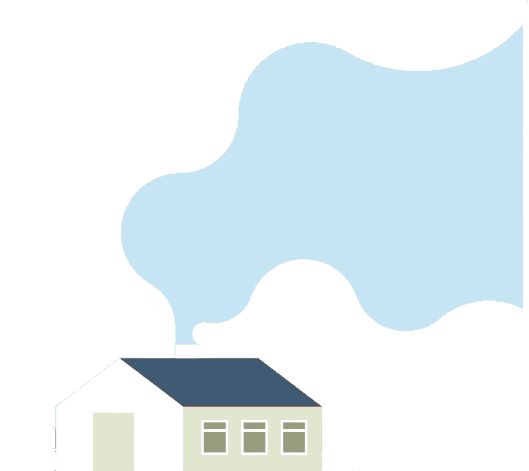
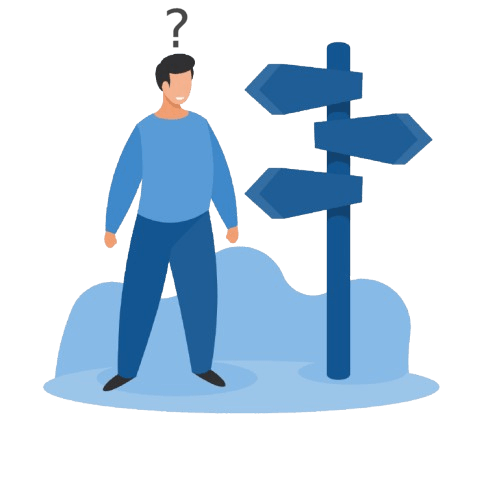
Added Mapline sample map

diff --git a/frontend/src/components/Samples.jsx b/frontend/src/components/Samples.jsx
@@ -7,7 +7,7 @@ const Samples = () => {
 
     return (
         <div className="container-fluid my-4">
-            <div className="row d-flex justify-content-center">
+            <div className="row d-flex justify-content-center mb-3">
                 <div
                     className={`col-12 col-lg-6 align-items-center  ${active === "sample" ? "bg-primary" : ""}`}
                     onMouseEnter={() => setActive("sample")}
@@ -15,12 +15,11 @@ const Samples = () => {
                 >
                     <Sample isActive={active}/>
                 </div>
-                <div
-                    className={`col-12 col-lg-6 align-items-center ${active === "map" ? "bg-primary" : ""}`}
-                    onMouseEnter={() => setActive("map")}
-                    onMouseLeave={() => setActive(null)}
-                >
-                    <MapSample isActive={active}/>
+            </div>
+            <div className="row d-flex justify-content-center mt-3">
+                <iframe className="border border-2 border-primary-dark px-0" src="https://app.mapline.com/map/map_17a6146c/UlRaYVQzSno3Mno1eVJsd1BkVVlLUTdQbk9hUldwTll5TU5Vck" style={{width:"80%", height: "600px"}} allow="geolocation *"></iframe>
+                <div className="d-flex justify-content-center" style={{"font-size": "10px"}}>
+                    <a href="https://mapline.com" target="_blank">Mapping by Mapline</a>
                 </div>
             </div>
         </div>

diff --git a/frontend/src/components/PriceBox.jsx b/frontend/src/components/PriceBox.jsx
@@ -2,7 +2,7 @@ const PriceBox = ({box, isActive}) => {
   return (
     <div key={box.label}
          className={`d-flex flex-column align-items-center justify-content-center p-3 rounded border
-         ${isActive ? "border-4 border-primary bg-primary-subtle" : "border-2 border-primary-dark bg-light"}`}>
+         ${isActive ? "border-2 border-primary bg-primary-subtle" : "border-1 border-primary-dark bg-light"}`}>
             <div className={`text-nowrap fw-semibold text-uppercase text-center lead fs-xl-3 fs-lg-4 fs-md-6 fs-0 ${isActive ? "text-primary-dark" : "text-primary-dark"}`}>
                 {box.label}
             </div>
@@ -11,7 +11,7 @@ const PriceBox = ({box, isActive}) => {
                 Listings
             </div>
             <div
-                className={`text-center mt-2 ${isActive ? "text-primary-dark" : "text-light-gray"}`}>
+                className={`text-center mt-2 lead fs-5 ${isActive ? "text-primary-dark fs-3" : "text-light-gray"}`}>
                 {box.price}
             </div>
     </div>

diff --git a/frontend/src/pages/NotFound.jsx b/frontend/src/pages/NotFound.jsx
@@ -1,11 +1,12 @@
 import { Link } from 'react-router'
-import ttinyhome from '../assets/ttinyhome.png'
+import tinyhome from '../assets/tinyhome.png'
 
 const NotFound = () => {
   return (
     <div className="p-3 display-3 text-center d-flex flex-column align-items-center">
-      <img src={ttinyhome} className="img-fluid border border-1 border-primary-dark rounded-3" style={{width: "10em", height: "9em"}}/>
-      <Link to="/" className="btn border-1 border-dark my-3"><h5 className="lead">Return to home</h5></Link>
+        <h1 className="lead fs-1 my-4 fst-italic">Page not found...</h1>
+      <img src={tinyhome} className="img-fluid" style={{width: "8em", height: "7em"}}/>
+      <Link to="/" className="btn border-1 border-dark"><h5 className="lead">Return to home</h5></Link>
     </div>
   )
 }
